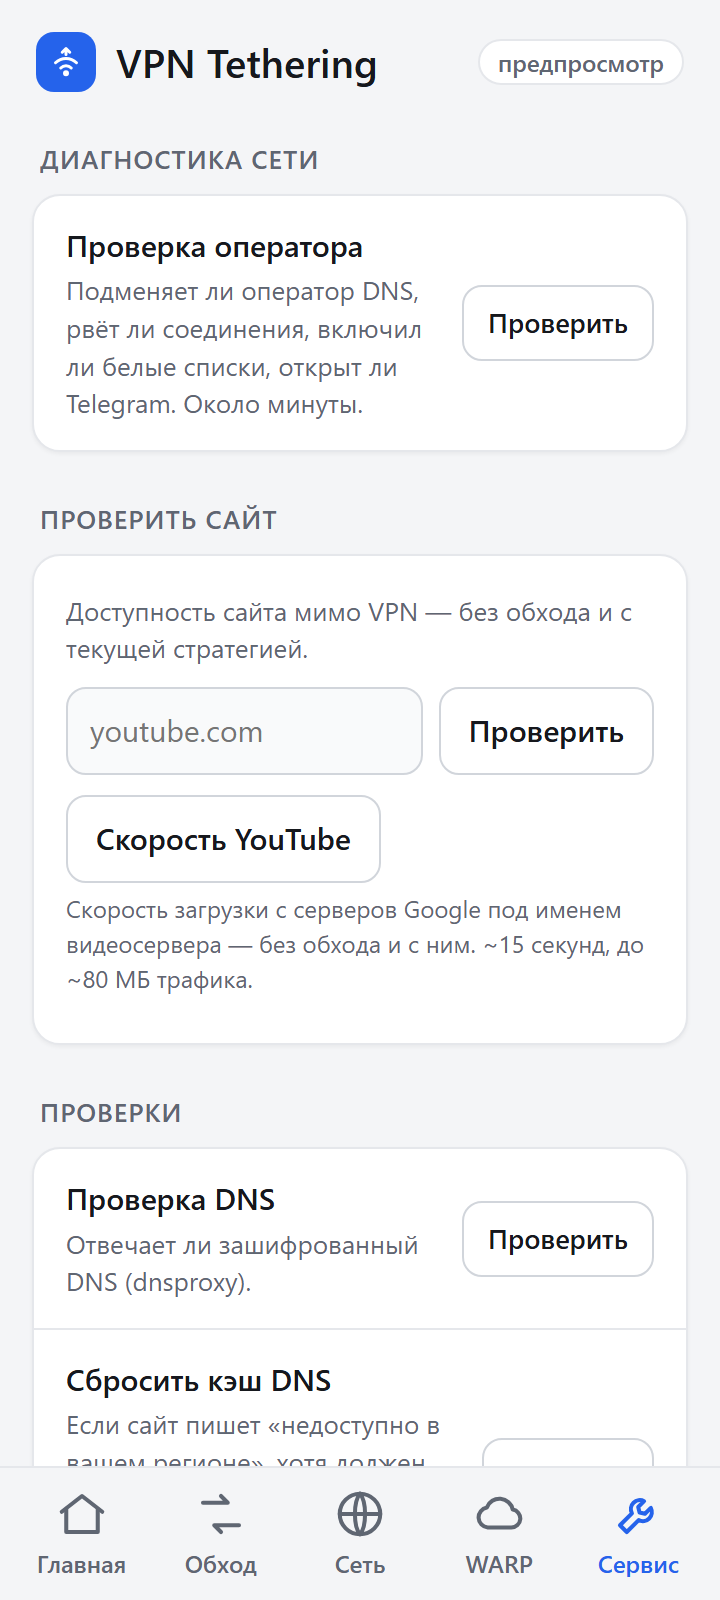
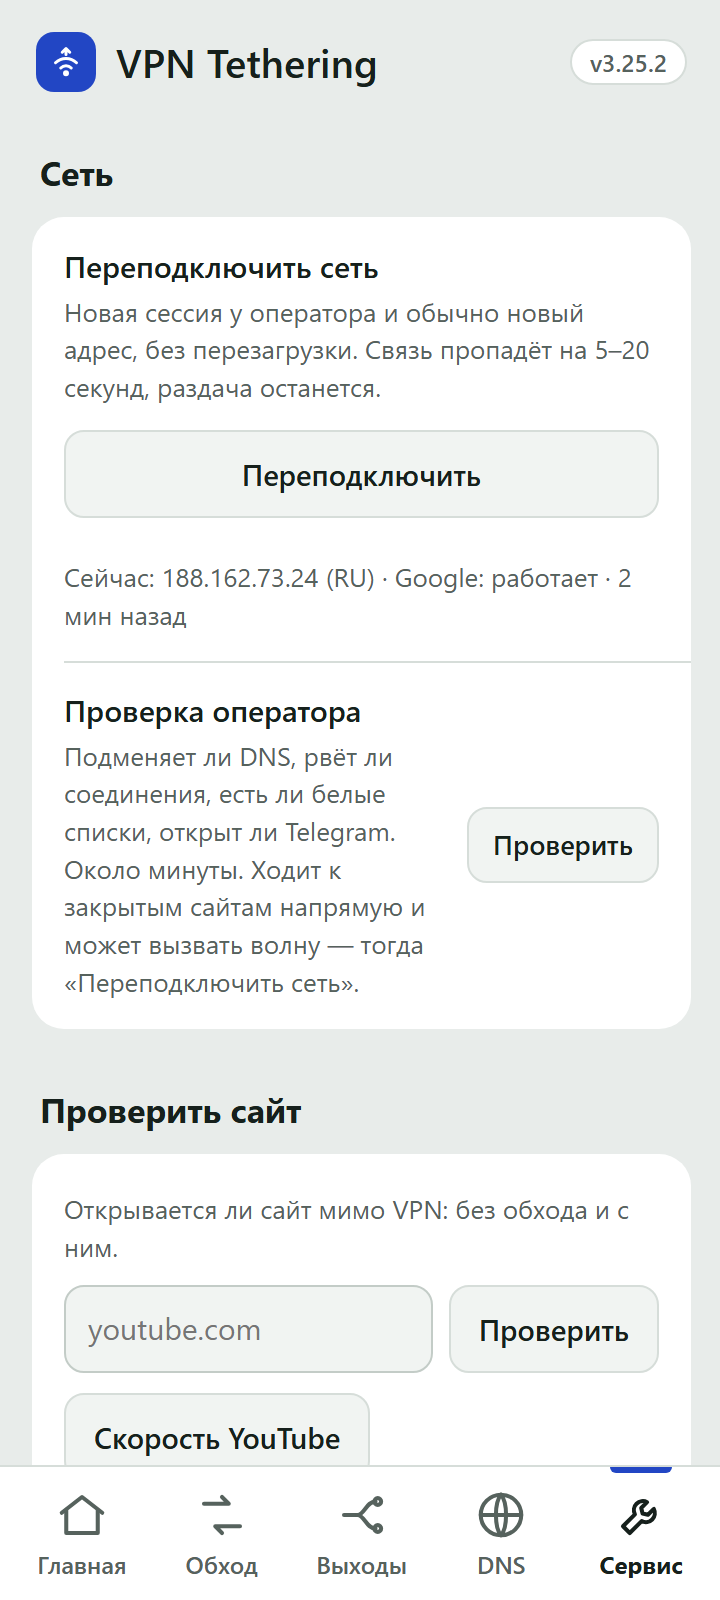
README: скриншоты нового WebUI (3.25.2): Главная, Обход, Выходы, DNS, Сервис

diff --git a/README.md b/README.md
@@ -35,13 +35,13 @@
 ## Скриншоты
 
 <p align="center">
-<picture><source media="(prefers-color-scheme: dark)" srcset="docs/screenshots/home-dark.png"><img src="docs/screenshots/home-light.png" width="19%" alt="Главная: режим раздачи и основные выключатели"></picture>
-<picture><source media="(prefers-color-scheme: dark)" srcset="docs/screenshots/bypass-dark.png"><img src="docs/screenshots/bypass-light.png" width="19%" alt="Обход: стратегия для каждой сети"></picture>
-<picture><source media="(prefers-color-scheme: dark)" srcset="docs/screenshots/net-dark.png"><img src="docs/screenshots/net-light.png" width="19%" alt="Сеть: сервер DNS, DNS для телефона и раздачи"></picture>
-<picture><source media="(prefers-color-scheme: dark)" srcset="docs/screenshots/warp-dark.png"><img src="docs/screenshots/warp-light.png" width="19%" alt="WARP: туннель, для кого и что через него идёт"></picture>
-<picture><source media="(prefers-color-scheme: dark)" srcset="docs/screenshots/tools-dark.png"><img src="docs/screenshots/tools-light.png" width="19%" alt="Сервис: диагностика сети и проверки"></picture>
+<picture><source media="(prefers-color-scheme: dark)" srcset="docs/screenshots/home-dark.png"><img src="docs/screenshots/home-light.png" width="19%" alt="Главная: путь трафика, режим раздачи и основные выключатели"></picture>
+<picture><source media="(prefers-color-scheme: dark)" srcset="docs/screenshots/bypass-dark.png"><img src="docs/screenshots/bypass-light.png" width="19%" alt="Обход: стратегия для каждой сети и подсказка про подбор"></picture>
+<picture><source media="(prefers-color-scheme: dark)" srcset="docs/screenshots/warp-dark.png"><img src="docs/screenshots/warp-light.png" width="19%" alt="Выходы: WARP и Opera, для кого и что через них идёт"></picture>
+<picture><source media="(prefers-color-scheme: dark)" srcset="docs/screenshots/net-dark.png"><img src="docs/screenshots/net-light.png" width="19%" alt="DNS: сервер DoH, открывает ли он ИИ-сервисы, DNS для телефона и раздачи"></picture>
+<picture><source media="(prefers-color-scheme: dark)" srcset="docs/screenshots/tools-dark.png"><img src="docs/screenshots/tools-light.png" width="19%" alt="Сервис: переподключение сети, проверка оператора и сайтов"></picture>
 </p>
-<p align="center"><sub>Главная · Обход · Сеть · WARP · Сервис</sub></p>
+<p align="center"><sub>Главная · Обход · Выходы · DNS · Сервис</sub></p>
 
 ## Возможности
 
